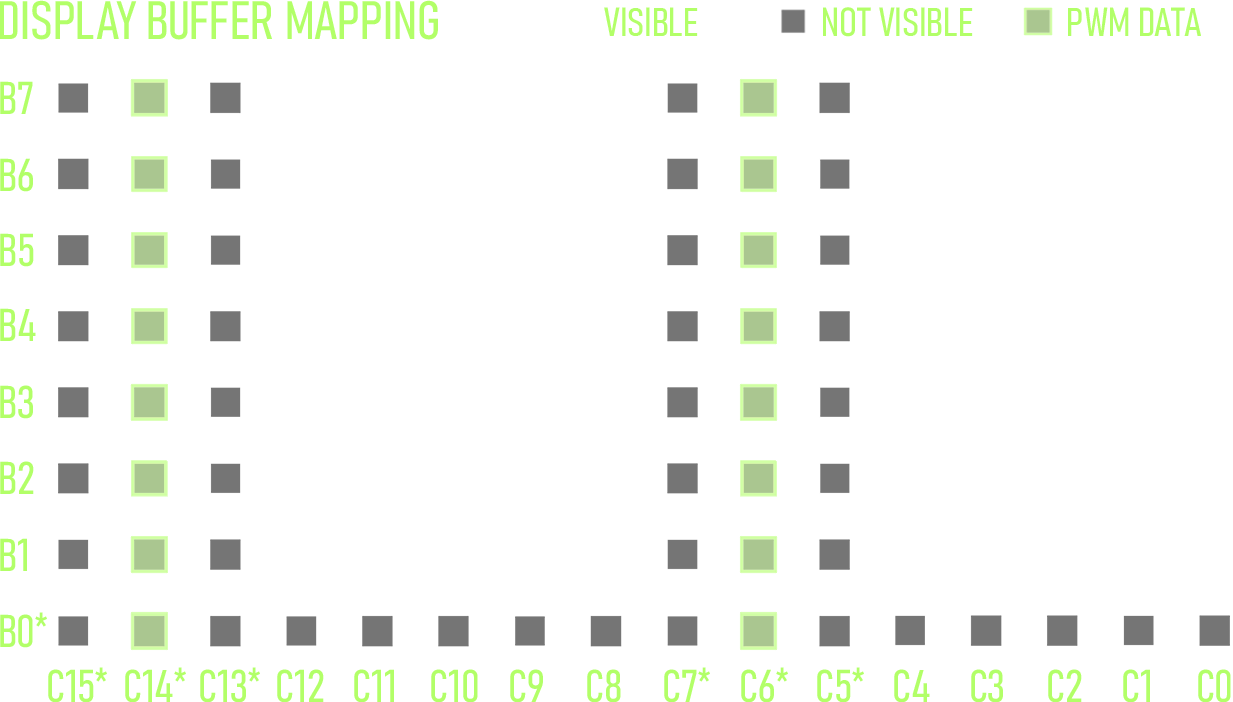
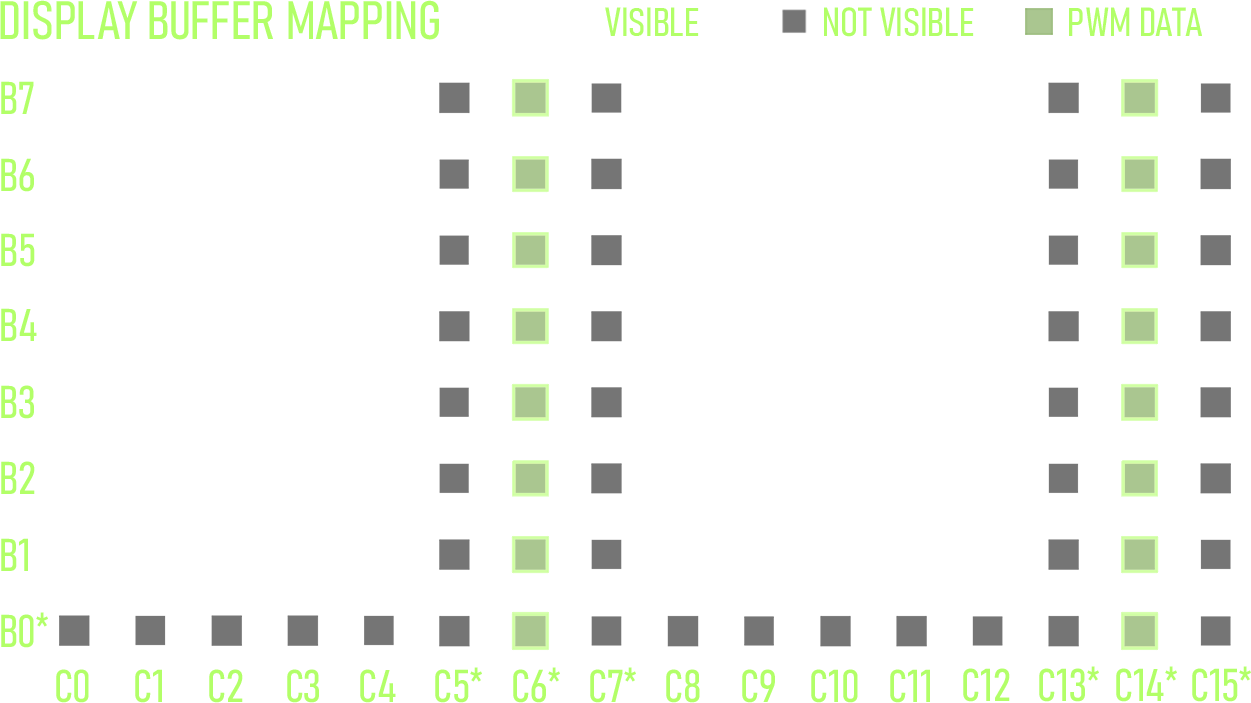
Fixed layout of Display Buffer Map in datasheet

diff --git a/src/Pixie.cpp b/src/Pixie.cpp
@@ -58,6 +58,20 @@ void Pixie::set_pix(uint16_t x, uint16_t y, uint8_t state){
 	}
 }
 
+void Pixie::push_pix(bool state){
+	if(state){
+		GPOS = (1 << DAT_pin);
+	}
+	else{
+		GPOC = (1 << DAT_pin);
+	}
+
+	GPOS = (1 << CLK_pin);
+	delayMicroseconds(clk_us);
+	GPOC = (1 << CLK_pin);
+	delayMicroseconds(clk_us);
+}
+
 void Pixie::write(float input, uint8_t places, uint8_t pos){
 	char char_buf[48];	
 	sprintf(char_buf, "%.*f", places, input);
@@ -361,31 +375,74 @@ void Pixie::scroll_message(char* input, uint16_t wait_ms, bool instant){
 			
 			push_byte(0);
 			show();
-			push_byte(bright);
+			delay(10);
+			push_byte(255);
 			show();
+			delay(10);
 			push_byte(0);
 			show();
+			delay(10);
 			push_byte(pgm_read_byte_far(col+(chr * 5 + 0)));
 			show();
+			delay(10);
 			push_byte(pgm_read_byte_far(col+(chr * 5 + 1)));
 			show();
+			delay(10);
 			push_byte(pgm_read_byte_far(col+(chr * 5 + 2)));
 			show();
+			delay(10);
 			push_byte(pgm_read_byte_far(col+(chr * 5 + 3)));
 			show();
+			delay(10);
 			push_byte(pgm_read_byte_far(col+(chr * 5 + 4)));
 			show();
+			delay(10);
 			
 			delay(150);
 		}
 		for(uint8_t i = 0; i < disp_count; i++){
-			for(uint8_t s = 0; s < 8; s++){
-				push_byte(0);
-				show();
-			}
+			push_byte(0);
+			show();
+			delay(10);
+			push_byte(255);
+			show();
+			delay(10);
+			push_byte(0);
+			show();
+			delay(10);
+			push_byte(0);
+			show();
+			delay(10);
+			push_byte(0);
+			show();
+			delay(10);
+			push_byte(0);
+			show();
+			delay(10);
+			push_byte(0);
+			show();
+			delay(10);
+			push_byte(0);
+			show();
+			delay(10);
+			
 			delay(150);
 		}
 	}
+}
+
+void Pixie::dump_buffer(){
+	for (uint16_t b = 0; b < disp_count * 8; b++) {
+		for (uint8_t i = 0; i < 8; i++) {
+			if(bitRead(display_buffer[b], 7 - i)){
+				Serial.print(1);
+			}
+			else{
+				Serial.print(0);
+			}
+		}
+	}
+	Serial.println("\n");
 }
 
 void Pixie::reset() {

diff --git a/src/Pixie.h b/src/Pixie.h
@@ -34,6 +34,7 @@ class Pixie{
 	void push(float input, uint8_t places = 2);
 	void push(uint8_t* icon);
 	void push(uint8_t byte1, uint8_t byte2, uint8_t byte3, uint8_t byte4, uint8_t byte5);
+	void push_pix(bool state);
 	
 	void shift_char(char chr);	
 	void shift_byte(uint8_t col);
@@ -52,6 +53,8 @@ class Pixie{
 	void scroll_message(char* input, uint16_t wait_ms = 150, bool instant = false);
 		
 	void set_pix(uint16_t x, uint16_t y, uint8_t state);
+	
+	void dump_buffer();
 	
 	void reset();
 	
